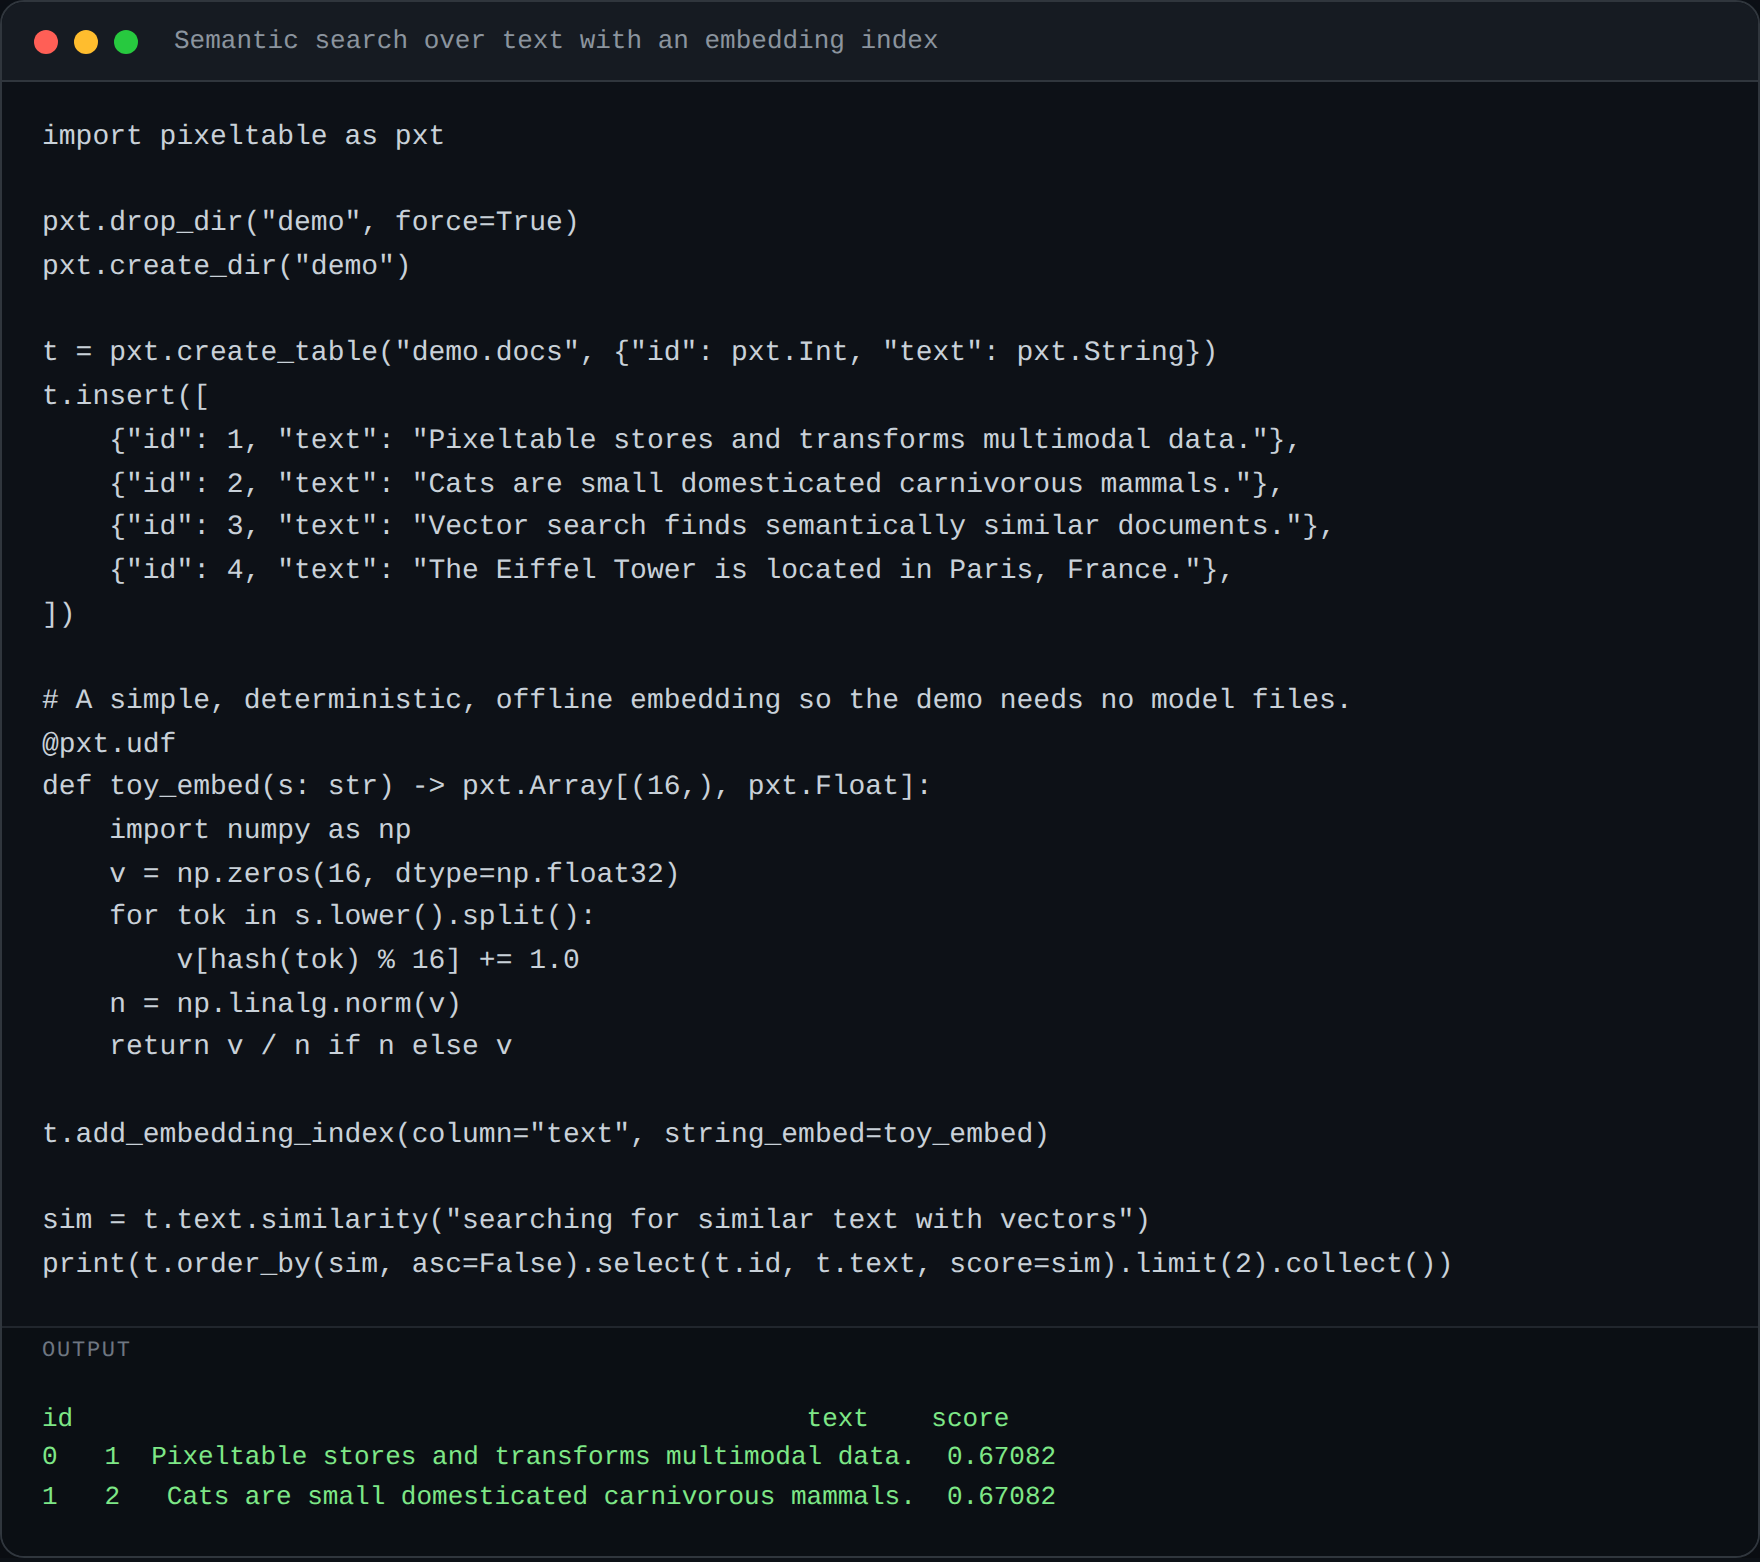
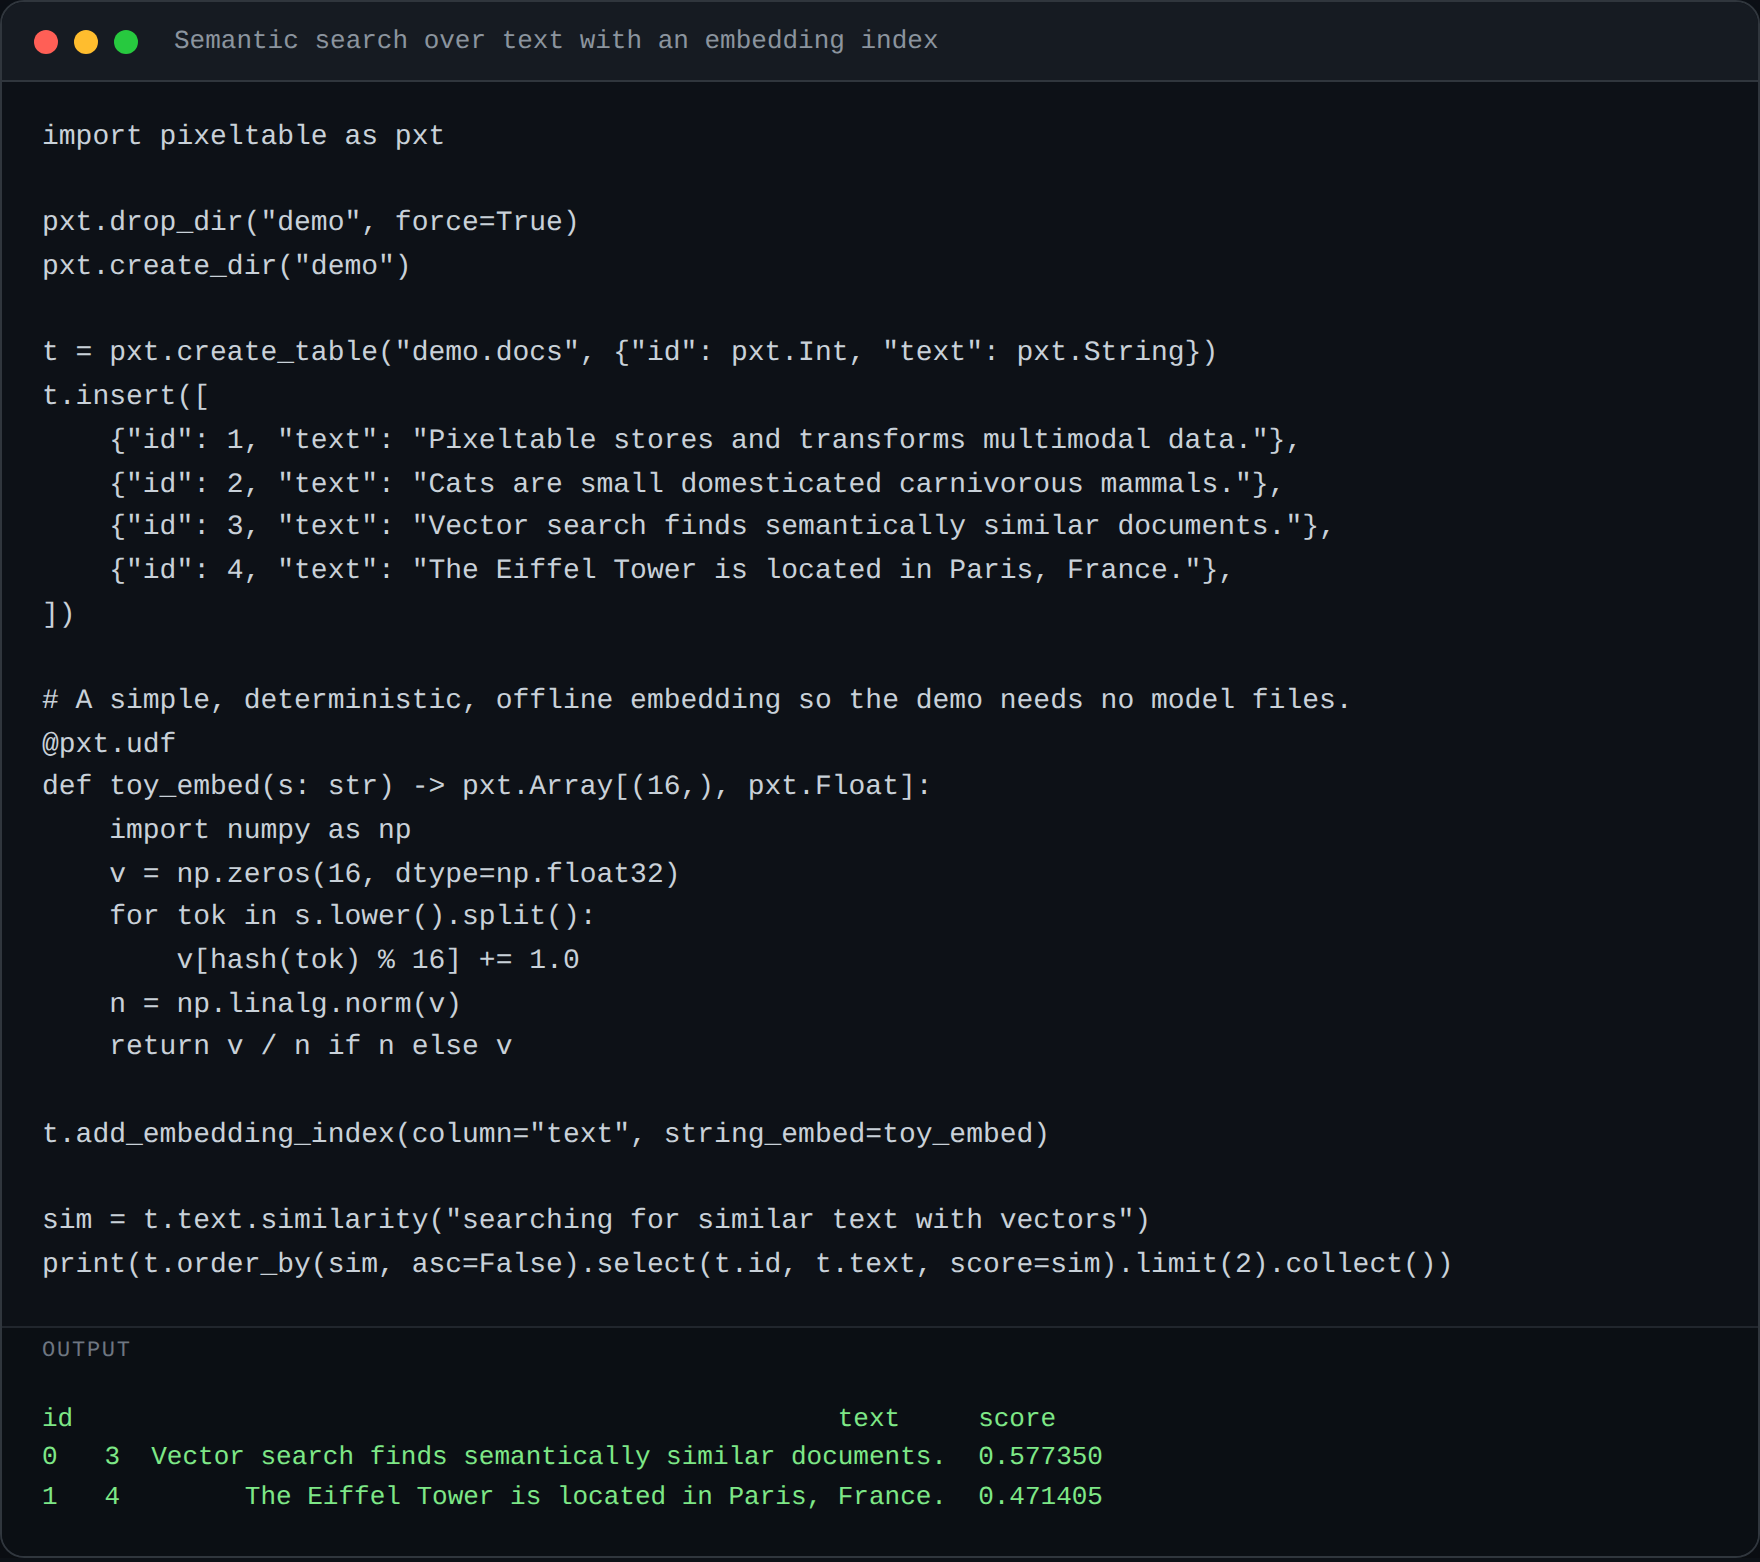
Publish site 2026-08-16T14:00Z

Changed region(s): [[0.0625, 0.8912, 0.625, 0.9834]]

diff --git a/posts/autodesign-meta-harness-optimization-for-long-horizon-agentic-design.html b/posts/autodesign-meta-harness-optimization-for-long-horizon-agentic-design.html
@@ -70,11 +70,11 @@ sim = t.text.similarity("searching for similar text with vectors")
 print(t.order_by(sim, asc=False).select(t.id, t.text, score=sim).limit(2).collect())
 </code></pre>
 <p>Run it and you get real output — here's the actual result captured from this
-exact snippet (ran in 6.12s):</p>
+exact snippet (ran in 4.93s):</p>
 <p><img alt="Semantic search over text with an embedding index" src="https://chrisclone.github.io/pixeltable-content-feed/assets/autodesign-meta-harness-optimization-for-long-horizon-agentic-design/example.png"></p>
-<pre><code>id                                               text    score
-0   1  Pixeltable stores and transforms multimodal data.  0.67082
-1   2   Cats are small domesticated carnivorous mammals.  0.67082
+<pre><code>id                                                 text     score
+0   3  Vector search finds semantically similar documents.  0.577350
+1   4        The Eiffel Tower is located in Paris, France.  0.471405
 </code></pre>
 <p>That's not a mockup. The code above executed against Pixeltable and produced
 that table. Swap the toy pieces (a UDF, a local embedding) for production ones —
